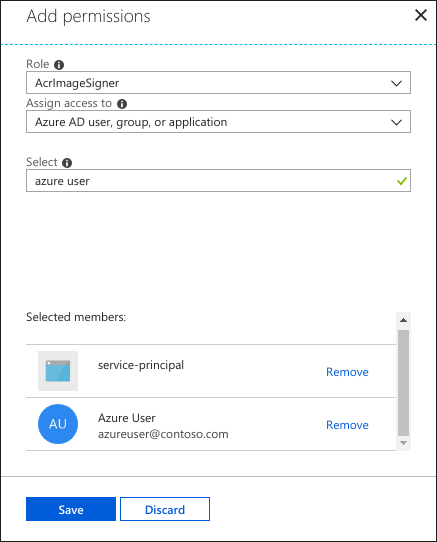
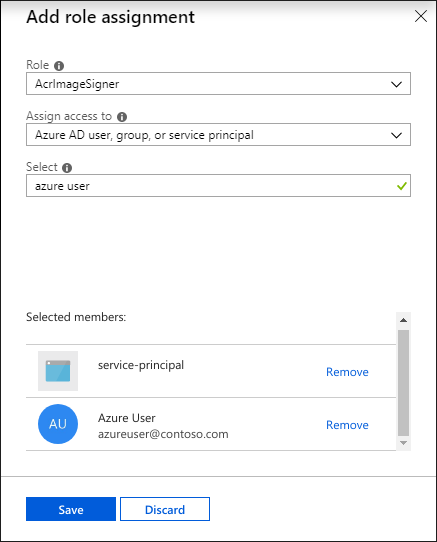
Additional updates to articles and screenshots

diff --git a/articles/container-registry/container-registry-content-trust.md b/articles/container-registry/container-registry-content-trust.md
@@ -72,7 +72,7 @@ Details for granting the `AcrImageSigner` role in the Azure portal and the Azure
 
 ### Azure portal
 
-Navigate to your registry in the Azure portal, then select **Access control (IAM)** > **Add role assignment**. Under **Add permissions**, select `AcrImageSigner` under **Role**, then **Select** one or more users or service principals, then **Save**.
+Navigate to your registry in the Azure portal, then select **Access control (IAM)** > **Add role assignment**. Under **Add role assignment**, select `AcrImageSigner` under **Role**, then **Select** one or more users or service principals, then **Save**.
 
 In this example, two entities have been assigned the `AcrImageSigner` role: a service principal named "service-principal," and a user named "Azure User."
 
